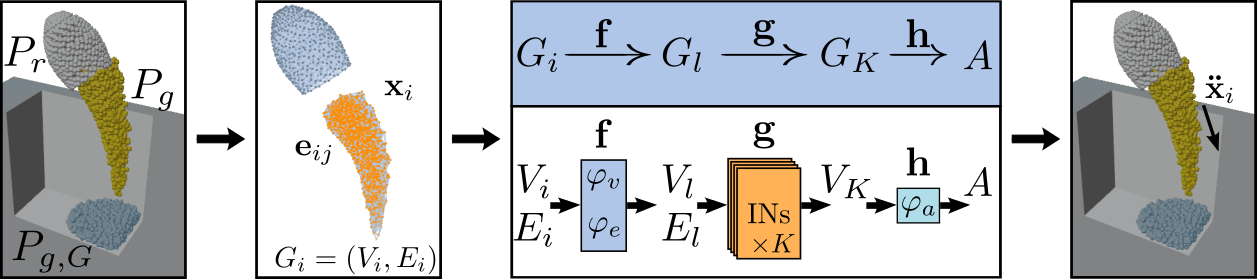
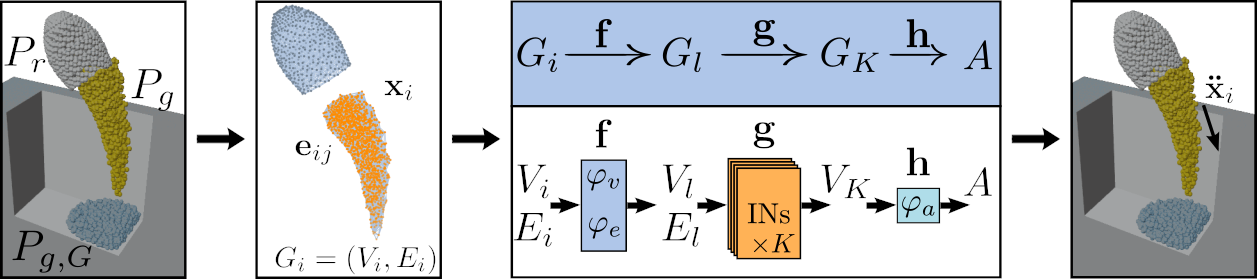
Update colours and news.

diff --git a/_sass/_themes.scss b/_sass/_themes.scss
@@ -10,8 +10,8 @@
   --global-code-bg-color: #{$code-bg-color-light};
   --global-text-color: #{$black-color};
   --global-text-color-light: #{$grey-color};
-  --global-theme-color: #{$purple-color};
-  --global-hover-color: #{$purple-color};
+  --global-theme-color: #{$cyan-color};
+  --global-hover-color: #{$cyan-color};
   --global-hover-text-color: #{$white-color};
   --global-footer-bg-color: #{$grey-color-dark};
   --global-footer-text-color: #{$grey-color-light};

diff --git a/_pages/about.md b/_pages/about.md
@@ -26,6 +26,6 @@ latest_posts:
 
 Hi there! I’m David Blanco Mulero, currently a Post-doc at [Institut de Robòtica i Informàtica Industrial](https://www.iri.upc.edu/) (IRI, CSIC-UPC).
 
-I received my Ph.D. in Robotics from Aalto University, advised by Prof. Ville Kyrki head of the [Intelligent Robotics group](https://irobotics.aalto.fi/).
+I received my Ph.D. in Robotics from Aalto University in 2024, advised by Prof. Ville Kyrki head of the [Intelligent Robotics group](https://irobotics.aalto.fi/).
 
 My research focuses on learning and representation for manipulation, with a special focus on manipulation of deformable objects.

diff --git a/_news/alberta_review.md b/_news/alberta_review.md
@@ -1,0 +1,8 @@
+---
+layout: post
+date: 2024-08-01
+inline: true
+related_posts: false
+---
+
+Our review paper on cloth manipulation: [Unfolding the Literature](https://www.annualreviews.org/content/journals/10.1146/annurev-control-022723-033252) is accepted to Annual Review of Control, Robotics, and Autonomous Systems.

diff --git a/_news/tdom_preprint.md b/_news/tdom_preprint.md
@@ -1,0 +1,8 @@
+---
+layout: post
+date: 2024-12-30
+inline: true
+related_posts: false
+---
+
+Our taxonomy for manipulation of deformable objects is now available as a pre-print: [T-DOM: A Taxonomy for Robotic Manipulation of Deformable Objects](https://arxiv.org/abs/2412.20998).
